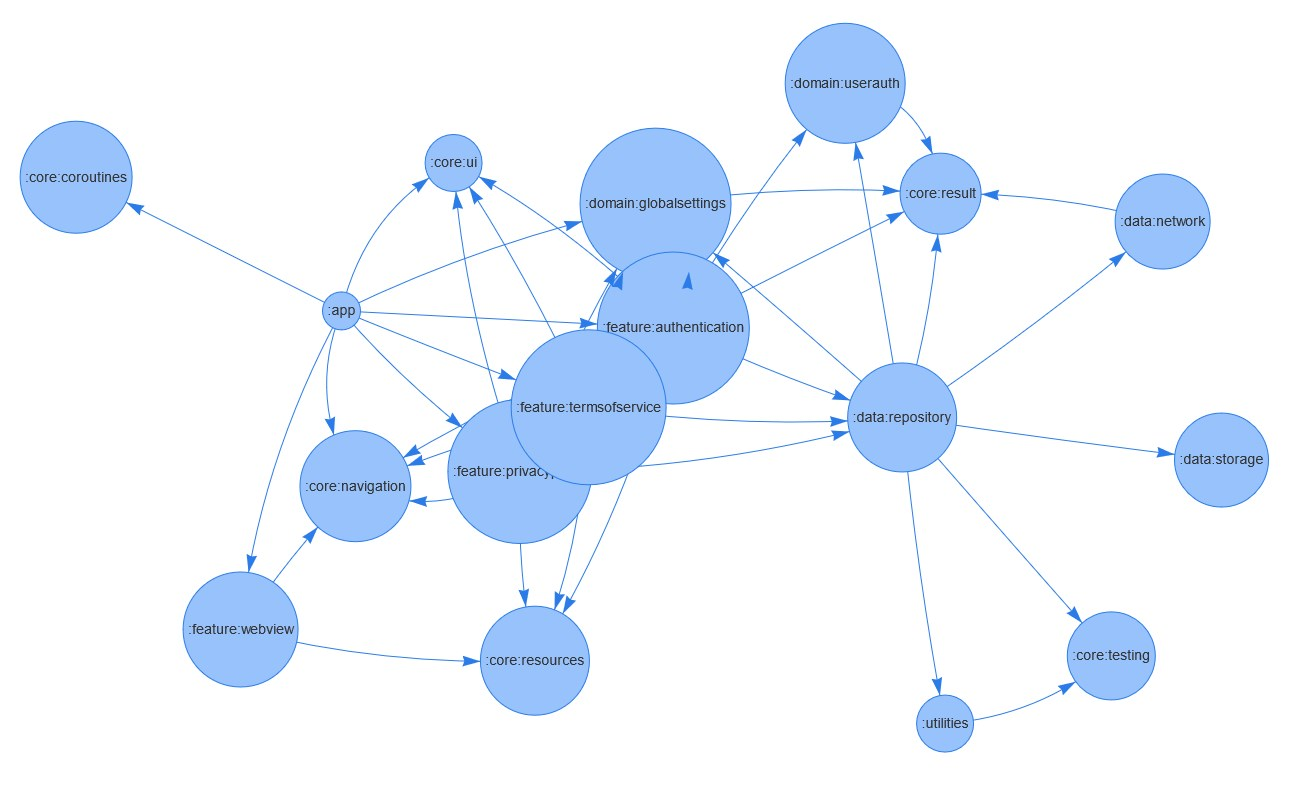
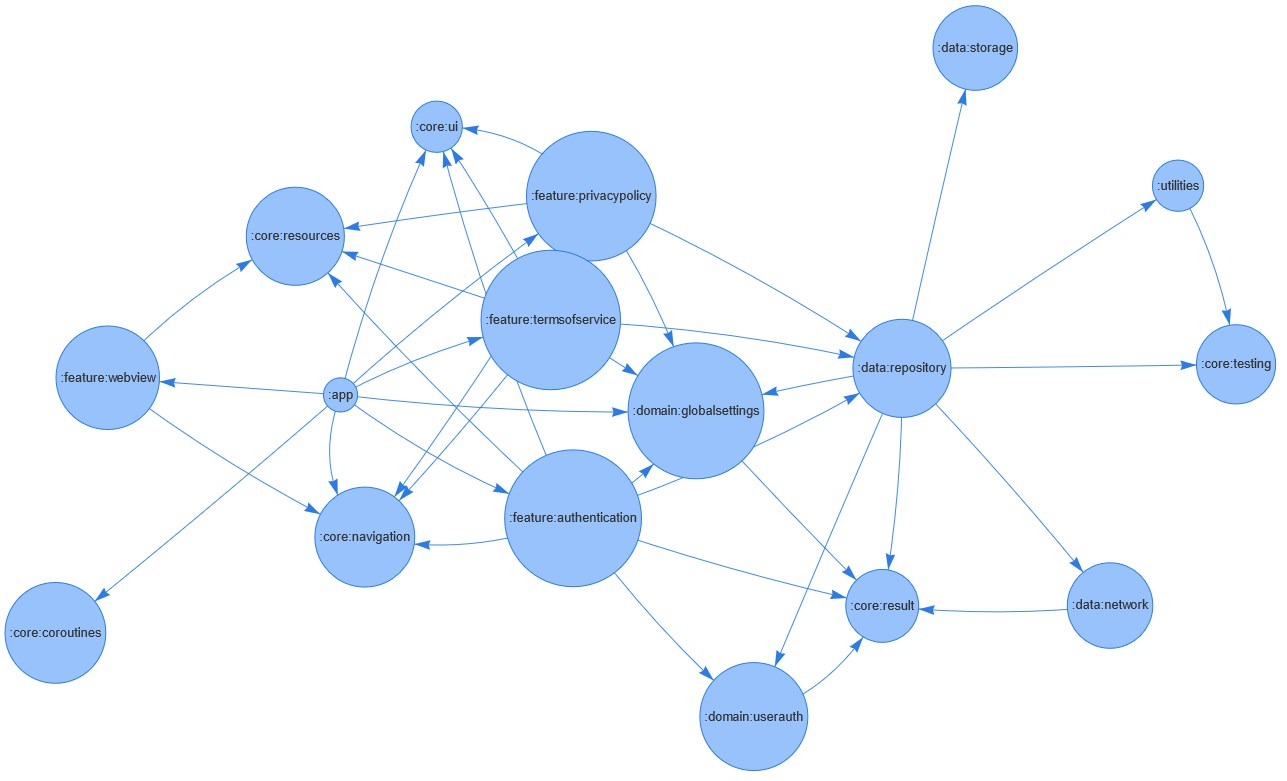
Update README.md

diff --git a/main.py b/main.py
@@ -17,7 +17,7 @@ def get_graph(path):
                 if stand(line).__contains__("\':"):
                     ln = get_between(stand(line), '\'', '\'')
                     modules.append(ln)
-                    net.add_node(ln, shape='circle', mass=14)
+                    net.add_node(ln, shape='circle', mass=7)
 
     def set_node_edges(root, files):
         if 'build.gradle' in files:

diff --git a/README.md b/README.md
@@ -25,11 +25,11 @@ dependencies {
 }
 ```
 <br>
-Generate graph example:
+Generated graph example:
 <br>
 <br>
 <div align="center">
-<img src="preview.jpg"  width="90%"/>
+<img src="preview.jpg"  width="100%"/>
 </div>
 
 # Instructions
@@ -37,3 +37,7 @@ Generate graph example:
 - Install python dependencies from `requirements.txt` file.
 - Run `python main.py`
 - Enter Android project path.
+<br>
+<br>
+
+Tested on Chris Banes [Tivi](https://github.com/chrisbanes/tivi) project.
